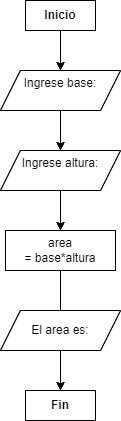
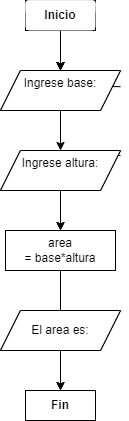
a

diff --git a/Anotaciones C-C++/Programación.md b/Anotaciones C-C++/Programación.md
@@ -242,7 +242,7 @@ Cuando se requiere solucionar un problema por medio de la programación, irónic
 
 En otras palabras, programar implica trabajar con *algoritmia* antes de siquiera programar; por ejemplo, si quisiera hacer un programa para calcular el área de un cuadrilatero dado, sería buena idea representar su solución por medio de un algoritmo y pseudocódigo plasmados en un diagrama de flujo.
 
-![diagrama_primero](area.svg)
+![diagrama_primero](area.png)
 
 Dentro de la programación estructurada se trabajarán con espacios de memoria llamados *bloques*, algunos de estos bloques estrán destinados a procedimientos especiales (*Void*) y otros a guardar variables para luego regresar un resultado, estos dos tipos de bloque trabajarán con otro bloque llamado *main*.
 
@@ -255,7 +255,7 @@ todo esto se hace con la finalidad de que el compilador sepa como leer el códig
 
 ![Empezando](hola_mundo.png)
 
-## C/C++ (alfin)
+## C/C++
 
 Este lenguaje es medio rarito y un tanto elemental, por lo que muchos de sus procesos resultarán algo más tediosos comparados con otros lenguajes con syntaxis más simples; por ejemplo, en python o mathlab no se tienen que especificar un tipo de dato cuando se requiere declarar una variable, en C o C++ si, y hablando de tipos de datos/variables...
 
@@ -326,4 +326,6 @@ Realizamos el proceso tal que:
         return 0;
 
         }
+
+>5 de mayo de 2025, clase 08 de Programación I.
 
